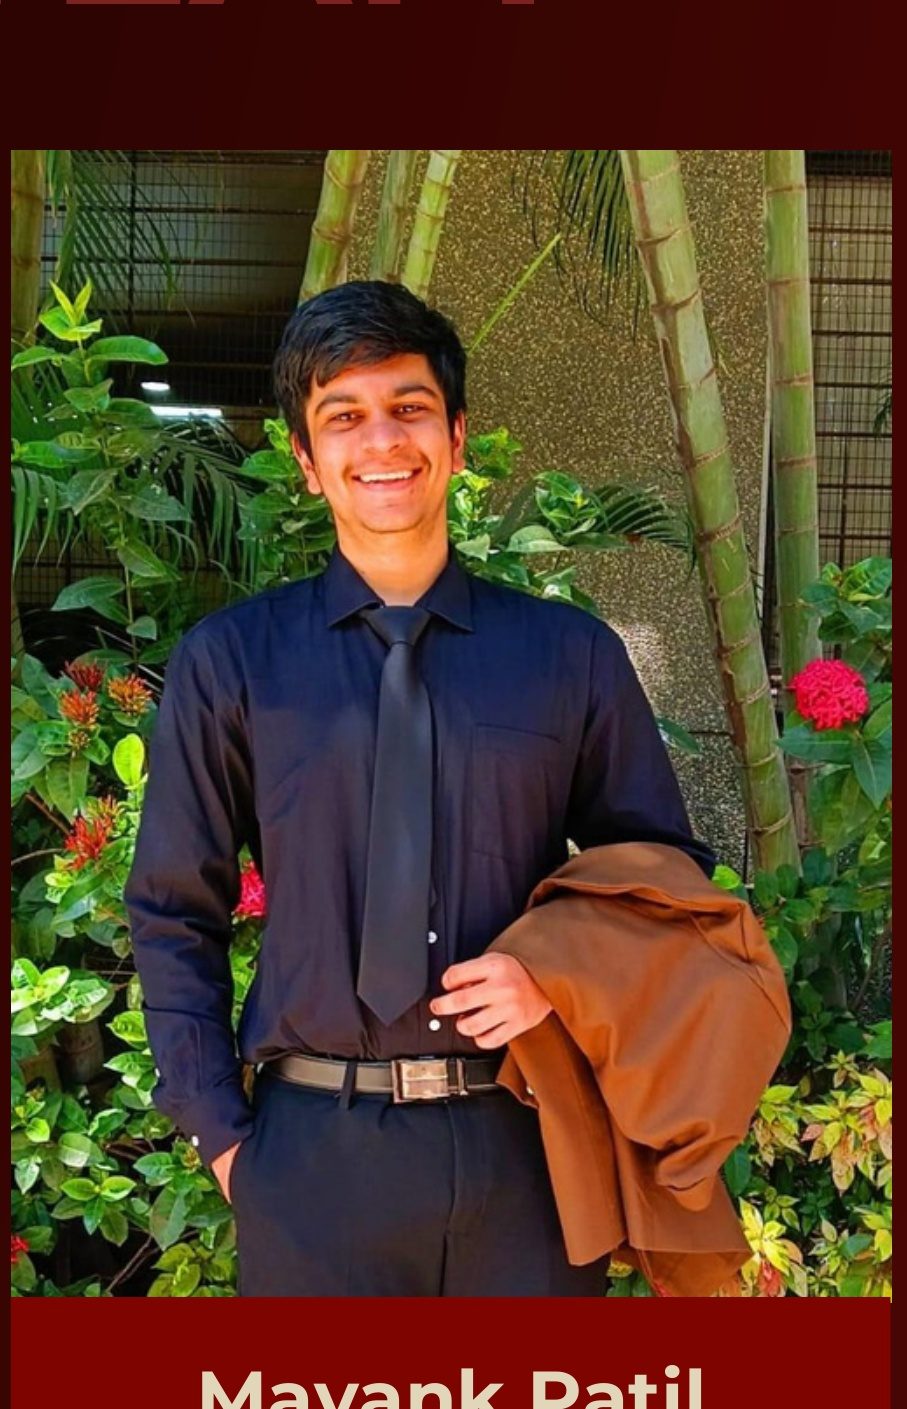
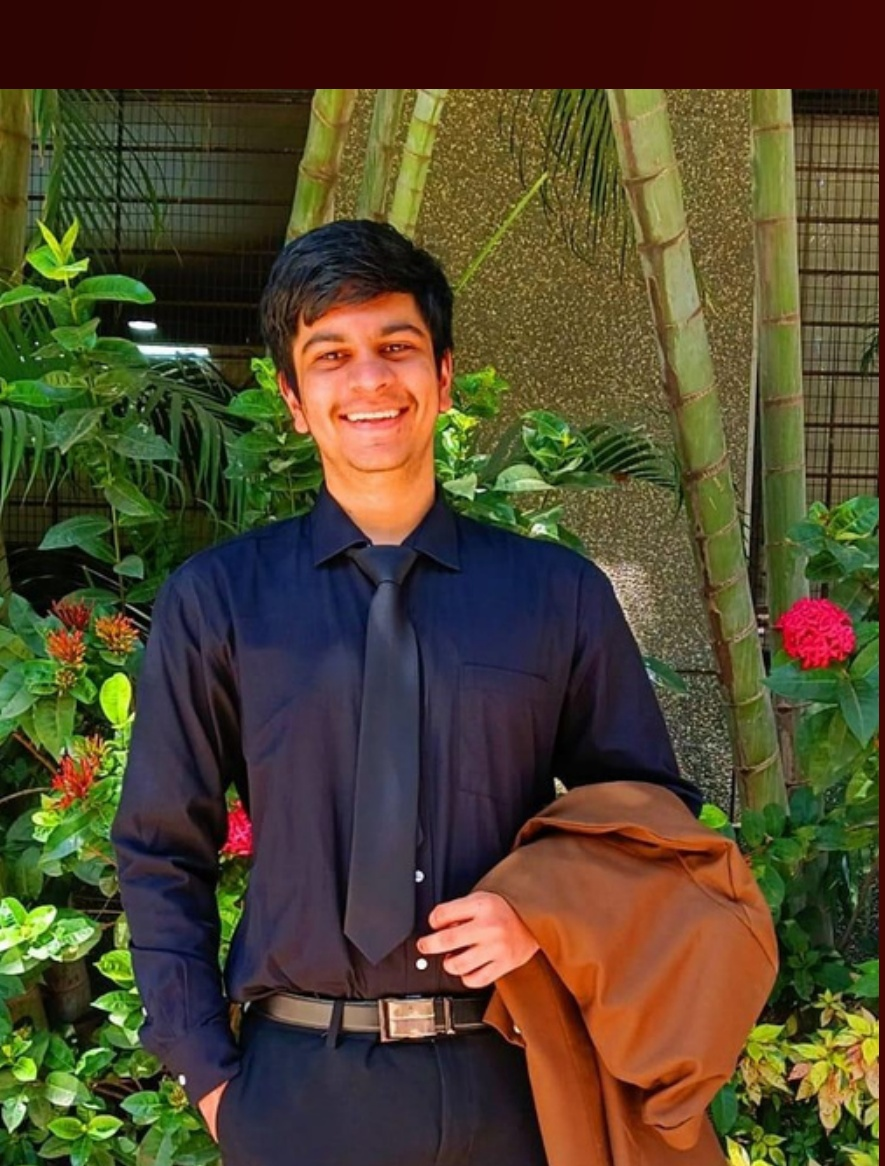
Eliminate slide header space by cropping exact photo box bounds for all 16 member headshots

diff --git a/js/public-dynamic.js b/js/public-dynamic.js
@@ -1498,7 +1498,7 @@ async function renderMembersPage() {
       height: 130px;
       border-radius: 50%;
       object-fit: cover;
-      object-position: center top;
+      object-position: center;
       margin-bottom: 0.9rem;
       border: 2.5px solid #ff7a59;
       filter: drop-shadow(0 0 8px rgba(255,180,130,0.5));

diff --git a/extract_exact_xref_photos.py b/extract_exact_xref_photos.py
@@ -1,0 +1,65 @@
+import fitz
+from PIL import Image
+import os
+
+pdf_path = r"c:\Projects- FINAL\club- website\astra induction ppt (1) (1).pdf"
+doc = fitz.open(pdf_path)
+output_dir = r"c:\Projects- FINAL\club- website"
+
+# Render matrix 3.0x for super crisp rendering
+zoom = 3.0
+mat = fitz.Matrix(zoom, zoom)
+
+# Slides 17, 18, 19, 20 (0-indexed: 16, 17, 18, 19)
+slide_mappings = [
+    (16, ["namash.jpg", "yash.jpg", "maya.jpg", "yogita.jpg"]),
+    (17, ["Om.jpg", "karthik.jpg", "Anish.jpg", "Pravesh.jpg"]),
+    (18, ["om nerkar.jpg", "a.jpg", "khushi.jpg", "Anay.jpg"]),
+    (19, ["Mehwish.jpg", "aarya.jpg", "khushi_nanekar.jpg", "Prakruti.jpg"])
+]
+
+for p_index, filenames in slide_mappings:
+    page = doc[p_index]
+    pix = page.get_pixmap(matrix=mat, alpha=False)
+    
+    temp_slide_path = f"temp_slide_{p_index+1}.png"
+    pix.save(temp_slide_path)
+    
+    # Collect all photo xref rects on this page
+    photo_rects = []
+    
+    for img_info in page.get_images(full=True):
+        xref = img_info[0]
+        rects = page.get_image_rects(xref)
+        for r in rects:
+            w = r.x1 - r.x0
+            h = r.y1 - r.y0
+            # Filter out top header logos, small icons, and bottom banners
+            if w > 40 and h > 100 and r.x0 > 50 and r.y0 > 100:
+                photo_rects.append((r.x0, r.y0, r.x1, r.y1, xref))
+                
+    # Sort left to right by x0
+    photo_rects.sort(key=lambda item: item[0])
+    
+    print(f"\n--- Slide {p_index+1}: Found {len(photo_rects)} photo rects for {len(filenames)} members ---")
+    
+    with Image.open(temp_slide_path) as slide_img:
+        for idx, (x0, y0, x1, y1, xref) in enumerate(photo_rects):
+            if idx < len(filenames):
+                target_filename = filenames[idx]
+                
+                # Convert PDF coords to image coords (scale by zoom factor 3.0)
+                left = int(x0 * zoom)
+                top = int(y0 * zoom)
+                right = int(x1 * zoom)
+                bottom = int(y1 * zoom)
+                
+                cropped = slide_img.crop((left, top, right, bottom))
+                out_filepath = os.path.join(output_dir, target_filename)
+                cropped.save(out_filepath, quality=95)
+                print(f"[{idx+1}/{len(filenames)}] Extracted exact photo for {target_filename} (BBox: {left},{top} to {right},{bottom} -> Size: {cropped.width}x{cropped.height})")
+                
+    if os.path.exists(temp_slide_path):
+        os.remove(temp_slide_path)
+
+print("\nAll 16 exact photo BBoxes extracted successfully without any slide header space!")

diff --git a/extract_perfect_cards.py b/extract_perfect_cards.py
@@ -1,0 +1,58 @@
+import fitz
+from PIL import Image
+import os
+
+pdf_path = r"c:\Projects- FINAL\club- website\astra induction ppt (1) (1).pdf"
+doc = fitz.open(pdf_path)
+
+output_dir = r"c:\Projects- FINAL\club- website"
+
+# 4 horizontal card slots
+slots = [
+    (0.053, 0.258), # Card 1
+    (0.283, 0.488), # Card 2
+    (0.513, 0.718), # Card 3
+    (0.743, 0.948)  # Card 4
+]
+
+# Photo box Y bounds (starts cleanly below slide title, ends above name banner)
+Y_TOP = 0.205
+Y_BOTTOM = 0.685
+
+slide_members = [
+    (16, ["namash.jpg", "yash.jpg", "maya.jpg", "yogita.jpg"]),
+    (17, ["Om.jpg", "karthik.jpg", "Anish.jpg", "Pravesh.jpg"]),
+    (18, ["om nerkar.jpg", "a.jpg", "khushi.jpg", "Anay.jpg"]),
+    (19, ["Mehwish.jpg", "aarya.jpg", "khushi_nanekar.jpg", "Prakruti.jpg"])
+]
+
+zoom = 3.0
+mat = fitz.Matrix(zoom, zoom)
+
+for page_num, filenames in slide_members:
+    page = doc[page_num]
+    pix = page.get_pixmap(matrix=mat, alpha=False)
+    
+    temp_slide_path = f"temp_slide_{page_num+1}.png"
+    pix.save(temp_slide_path)
+    
+    with Image.open(temp_slide_path) as slide_img:
+        W, H = slide_img.size
+        top = int(H * Y_TOP)
+        bottom = int(H * Y_BOTTOM)
+        
+        print(f"\n--- Processing Slide {page_num+1} ({W}x{H}) ---")
+        for i, filename in enumerate(filenames):
+            x_start, x_end = slots[i]
+            left = int(W * x_start)
+            right = int(W * x_end)
+            
+            cropped = slide_img.crop((left, top, right, bottom))
+            out_filepath = os.path.join(output_dir, filename)
+            cropped.save(out_filepath, quality=95)
+            print(f"Extracted perfect photo [{i+1}/4]: {filename} -> {cropped.width}x{cropped.height}")
+            
+    if os.path.exists(temp_slide_path):
+        os.remove(temp_slide_path)
+
+print("\nAll 16 member photos extracted perfectly with zero top/bottom header bars!")
